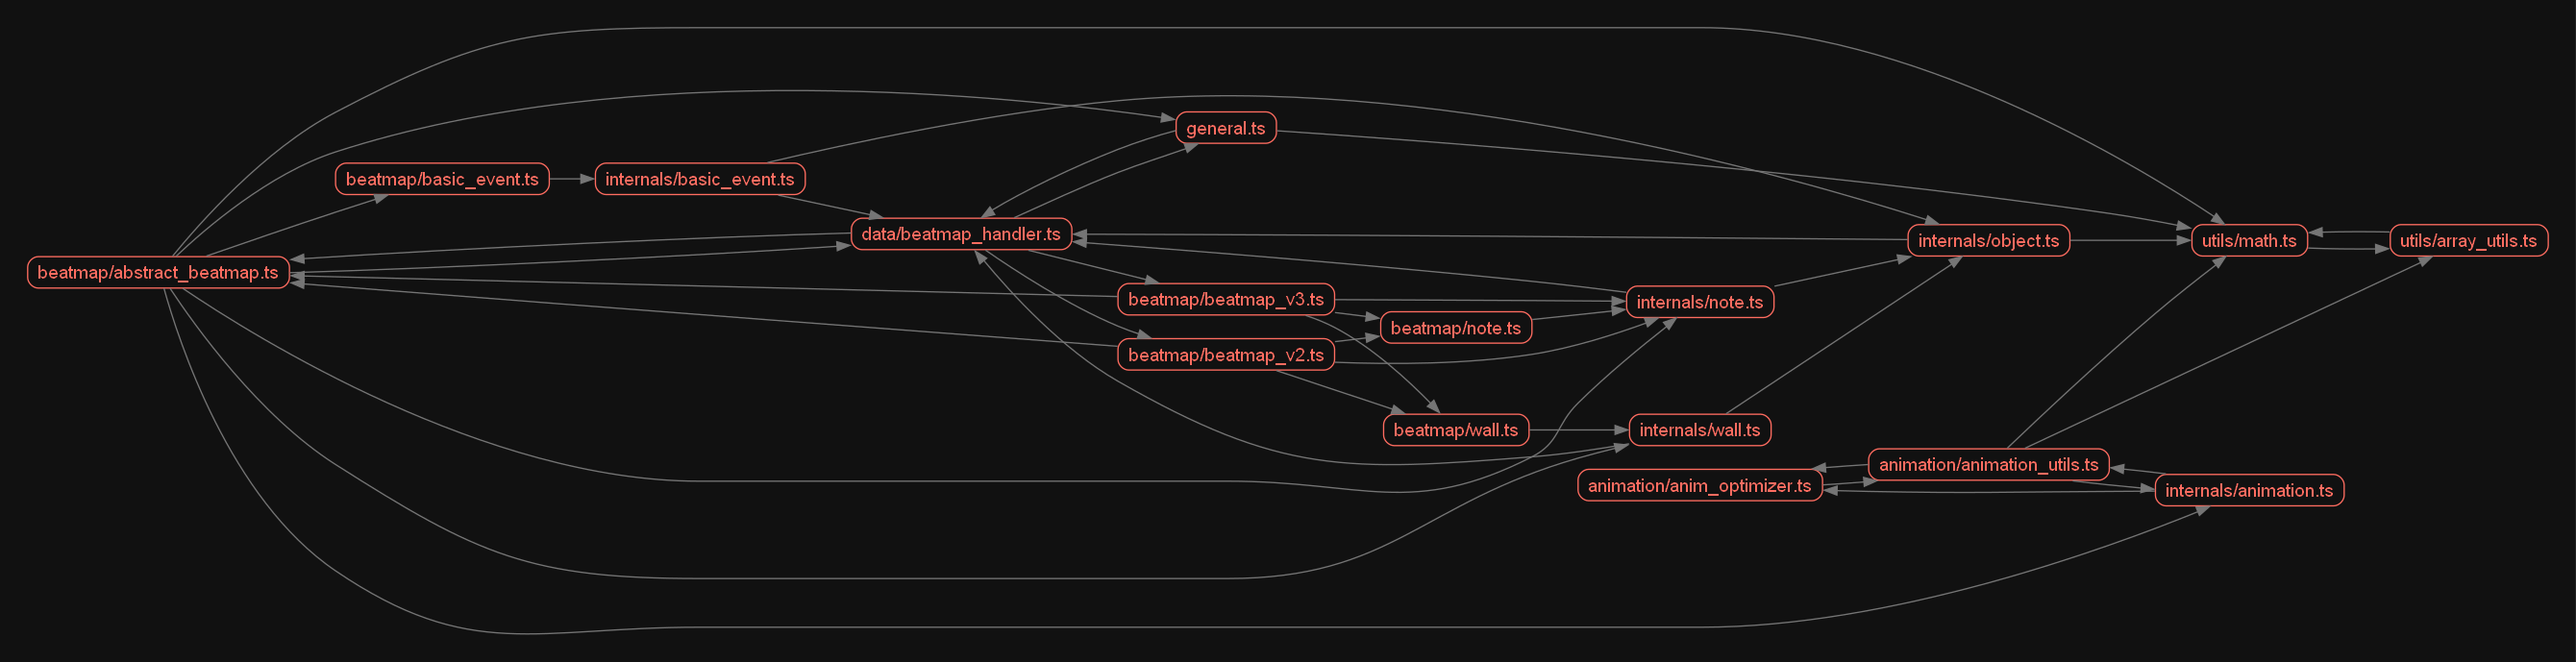
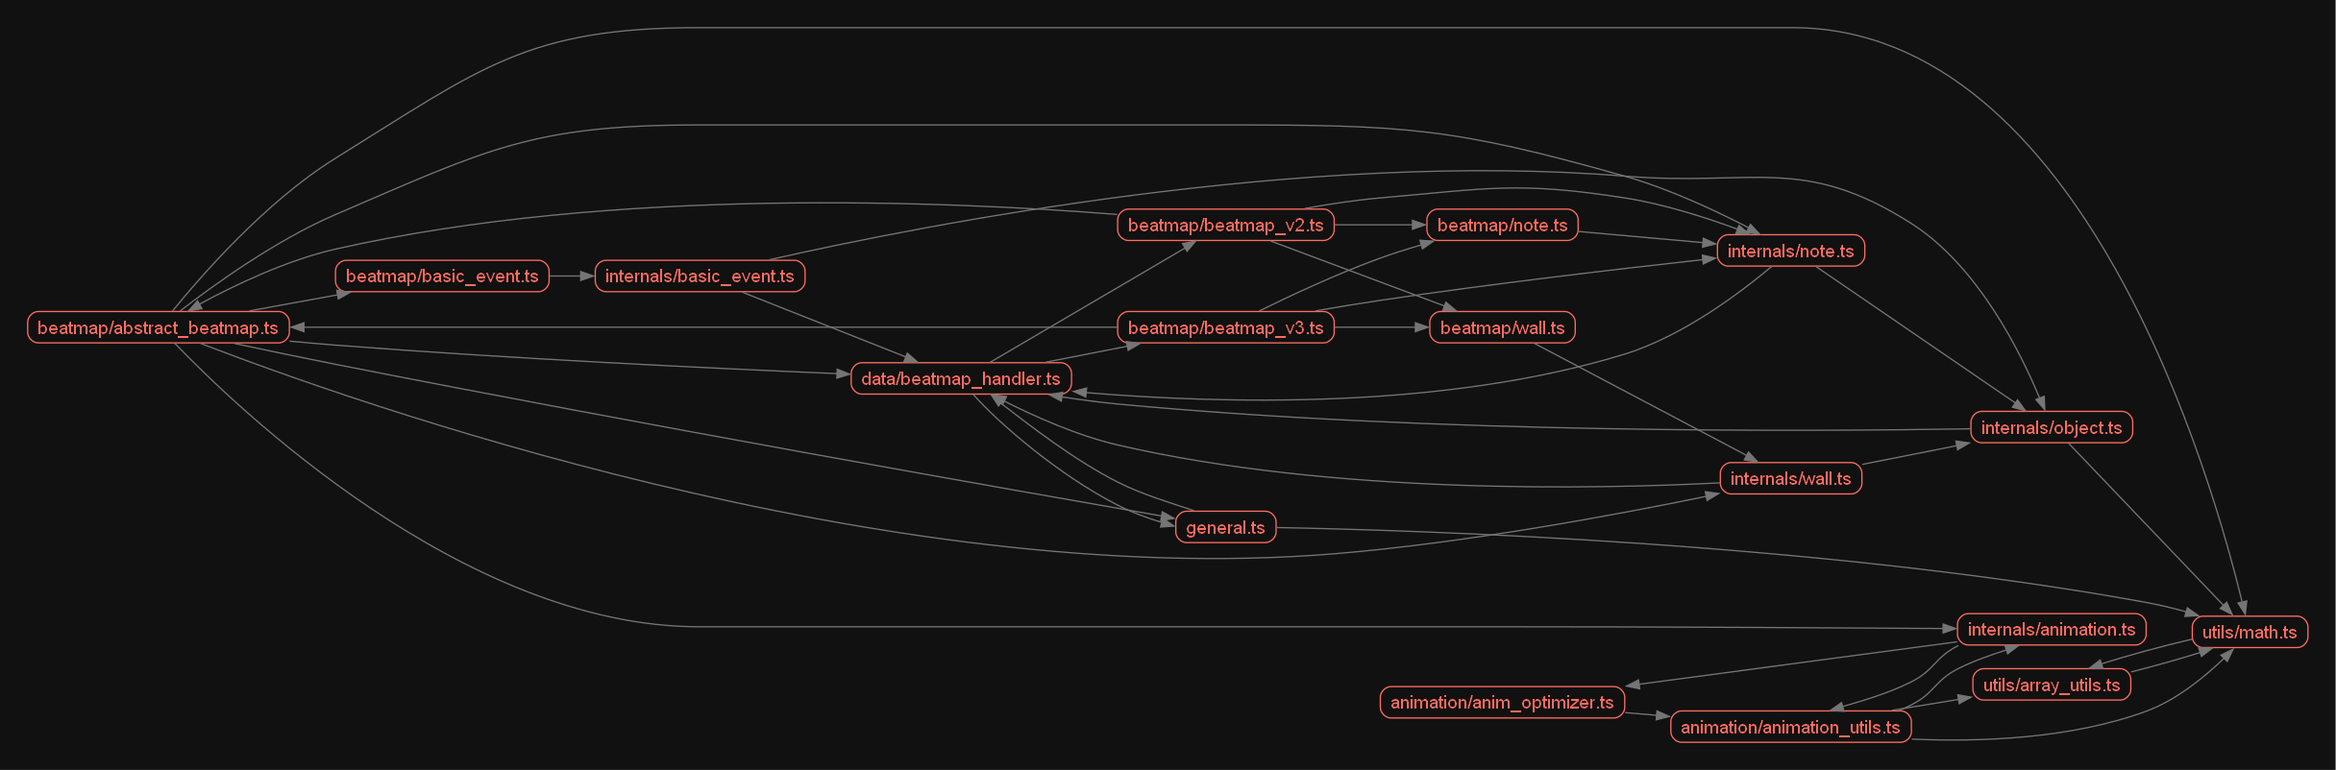
Export through mod.ts, fix some more includes - Improve madge graph

diff --git a/src/mod.ts b/src/mod.ts
@@ -1,44 +1,17 @@
-export * from './animation/anim_optimizer.ts'
-export * from './animation/animation_utils.ts'
-export * from './animation/animation.ts'
-export * from './animation/keyframe.ts'
-export * from './animation/track.ts'
+export * from './animation/mod.ts'
 
-export * from './beatmap/abstract_beatmap.ts'
-export * from './beatmap/basic_event.ts'
-export * from './beatmap/beatmap_v2.ts'
-export * from './beatmap/beatmap_v3.ts'
-export * from './beatmap/beatmap.ts'
-export * from './beatmap/cinema.ts'
-export * from './beatmap/custom_event.ts'
-export * from './beatmap/environment.ts'
-export * from './beatmap/fog.ts'
-export * from './beatmap/light_remapper.ts'
-export * from './beatmap/note.ts'
-export * from './beatmap/object.ts'
-export * from './beatmap/wall.ts'
+export * from './beatmap/mod.ts'
 
-export * from './data/beatmap_handler.ts'
-export * from './data/color.ts'
-export * from './data/constants.ts'
-export * from './data/easings.ts'
-export * from './data/environment_types.ts'
-export * from './data/types.ts'
+export * from './data/mod.ts'
 
-export * from './internals/animation.ts'
-export * from './internals/custom_event.ts'
-export * from './internals/environment.ts'
-export * from './internals/basic_event.ts'
-export * from './internals/light_remapper.ts'
-export * from './internals/object.ts'
+export * from './internals/mod.ts'
 
-export * from './utils/array_utils.ts'
-export * from './utils/json.ts'
-export * from './utils/math.ts'
-export * from './utils/regex.ts'
+export * from './utils/mod.ts'
 
 export * from './general.ts'
+
 // TODO: Finish
-// export * from './model.ts'
+// export * from './model/mod.ts'
 export * from './rm_json.ts'
-export {debugWall} from "./model/wall.ts";
+
+export * from './deps.ts'

diff --git a/src/beatmap/beatmap.ts b/src/beatmap/beatmap.ts
@@ -1,12 +1,16 @@
 // deno-lint-ignore-file adjacent-overload-signatures
 import { adbDeno, compress, fs, path } from '../deps.ts'
-import { Environment } from './environment.ts'
-import { parseFilePath, RMLog } from '../general.ts'
-import { QUEST_WIP_PATH } from '../data/constants.ts'
-import { arrRemove } from '../utils/array_utils.ts'
+
 import { DIFFPATH, DIFFS, FILENAME } from '../data/types.ts'
+import { QUEST_WIP_PATH } from '../data/constants.ts'
 import { info } from '../data/beatmap_handler.ts'
-import { RMDifficulty } from './abstract_beatmap.ts'
+
+import { arrRemove } from '../utils/array_utils.ts'
+
+import { parseFilePath, RMLog } from '../general.ts'
+
+import { Environment } from './environment.ts'
+import type { RMDifficulty } from './abstract_beatmap.ts'
 
 /**
  * Converts an array of Json objects to a class counterpart.

diff --git a/src/beatmap/abstract_beatmap.ts b/src/beatmap/abstract_beatmap.ts
@@ -1,7 +1,6 @@
 import {CustomEvent} from './custom_event.ts'
 import {Environment, Geometry} from './environment.ts'
 import {GeometryMaterial} from '../data/environment_types.ts'
-import {OptimizeSettings} from '../animation/mod.ts'
 import {parseFilePath, RMLog} from '../general.ts'
 import {RMJson} from '../rm_json.ts'
 import {DIFFNAME, DIFFPATH, REQUIRE_MODS, SUGGEST_MODS, TJson,} from '../data/types.ts'
@@ -15,6 +14,7 @@ import {setDecimals} from '../utils/math.ts'
 import {Arc, Bomb, Chain, Note} from "../internals/note.ts";
 import {Wall} from "../internals/wall.ts";
 import {AbstractEvent} from "./basic_event.ts";
+import { OptimizeSettings } from "../animation/anim_optimizer.ts";
 
 export interface RMDifficulty {
     version: bsmap.v2.IDifficulty['_version'] | bsmap.v3.IDifficulty['version']

diff --git a/src/model/model.ts b/src/model/model.ts
@@ -26,18 +26,13 @@ import * as CustomEventInternals from '../internals/custom_event.ts'
 
 
 import {Environment, Geometry} from '../beatmap/environment.ts'
-import {
-    bakeAnimation,
-    complexifyArray,
-    iterateKeyframes,
-    mirrorAnimation,
-    optimizeAnimation,
-    OptimizeSettings,
-} from '../animation/mod.ts'
 
 import {baseEnvironmentTrack} from '../beatmap/beatmap.ts'
 import {animateComponent, animateTrack} from '../beatmap/custom_event.ts'
 import {backLasers} from '../beatmap/basic_event.ts'
+
+import {optimizeAnimation, OptimizeSettings} from "../animation/anim_optimizer.ts";
+import {bakeAnimation, complexifyArray, iterateKeyframes, mirrorAnimation} from "../animation/animation_utils.ts";
 
 
 let modelSceneCount = 0

diff --git a/src/beatmap/beatmap_v2.ts b/src/beatmap/beatmap_v2.ts
@@ -1,5 +1,4 @@
 import { bomb, note } from './note.ts'
-import { noteAnimation, wallAnimation, Track } from '../animation/mod.ts'
 import { wall } from './wall.ts'
 import { bsmap } from '../deps.ts'
 import {
@@ -11,6 +10,8 @@ import {
 } from '../data/types.ts'
 import { AbstractDifficulty } from './abstract_beatmap.ts'
 import {Bomb, Note} from "../internals/note.ts";
+import { Track } from "../animation/track.ts";
+import { noteAnimation, wallAnimation } from "../animation/animation.ts";
 
 function toNoteOrBomb(b: bsmap.v2.INote): Note | Bomb {
     const params:

diff --git a/src/beatmap/beatmap_v3.ts b/src/beatmap/beatmap_v3.ts
@@ -1,4 +1,3 @@
-import { noteAnimation, wallAnimation, Track} from '../animation/mod.ts'
 import { bomb, note } from './note.ts'
 import { wall } from './wall.ts'
 import { bsmap } from '../deps.ts'
@@ -11,6 +10,8 @@ import {
 } from '../data/types.ts'
 import { AbstractDifficulty } from './abstract_beatmap.ts'
 import {Bomb, Note} from "../internals/note.ts";
+import { noteAnimation, wallAnimation } from "../animation/animation.ts";
+import { Track } from "../animation/track.ts";
 
 function toNoteOrBomb(
     obj: bsmap.v3.IColorNote | bsmap.v3.IBombNote,

diff --git a/madge/generate_image.ts b/madge/generate_image.ts
@@ -2,8 +2,14 @@ import madge from 'npm:madge@^6.0.0'
 
 // deno run --allow-all "madge/generate_image.ts" --no-check
 
-madge('src/mod.ts').then((res) => {
-    res.image("madge/image.png")
-    res.image("madge/circular.png", true)
+madge('src/mod.ts', {
+    detectiveOptions: {
+        ts: {
+            skipTypeImports: true,
+        },
+    },
+}).then((res: any) => {
+    res.image('madge/image.png')
+    res.image('madge/circular.png', true)
     console.log(res.circular())
 })

diff --git a/src/data/beatmap_handler.ts b/src/data/beatmap_handler.ts
@@ -4,8 +4,8 @@ import { DIFFNAME, DIFFPATH } from './types.ts'
 import { parseFilePath } from '../general.ts'
 
 import type { AbstractDifficulty } from '../beatmap/abstract_beatmap.ts'
-import type { V3Difficulty } from "../beatmap/beatmap_v3.ts";
-import type { V2Difficulty } from "../beatmap/beatmap_v2.ts";
+import { V3Difficulty } from "../beatmap/beatmap_v3.ts";
+import { V2Difficulty } from "../beatmap/beatmap_v2.ts";
 
 export let info: bsmap.IInfo
 export let infoPath: string

diff --git a/src/internals/mod.ts b/src/internals/mod.ts
@@ -1,0 +1,8 @@
+export * as AnimationInternals from "./animation.ts"
+export * as BasicEventInternals from "./basic_event.ts"
+export * as CustomEventInternals from "./custom_event.ts"
+export * as EnvironmentInternals from "./environment.ts"
+export * as LightRemapperInternals from "./light_remapper.ts"
+export * as NoteInternals from "./note.ts"
+export * as ObjectInternals from "./object.ts"
+export * as WallInternals from "./wall.ts"

diff --git a/src/beatmap/environment.ts b/src/beatmap/environment.ts
@@ -11,9 +11,9 @@ import {
     Lookup,
     RawKeyframesAny,
 } from '../data/types.ts'
-import { combineAnimations } from '../animation/mod.ts'
 import { GeometryMaterial } from '../data/environment_types.ts'
 import { activeDiffGet } from '../data/beatmap_handler.ts'
+import { combineAnimations } from "../animation/animation_utils.ts";
 
 let envCount = 0
 

diff --git a/src/beatmap/basic_event.ts b/src/beatmap/basic_event.ts
@@ -1,7 +1,10 @@
+import {bsmap} from "../deps.ts"
+
 import {EventGroup, InterscopeGroup} from '../data/constants.ts'
+import {Fields} from '../data/types.ts'
+
 import * as EventInternals from '../internals/basic_event.ts'
 import {BaseEvent} from '../internals/basic_event.ts'
-import {Fields} from '../data/types.ts'
 
 type LightParameters =
     | [

diff --git a/src/beatmap/mod.ts b/src/beatmap/mod.ts
@@ -4,3 +4,9 @@ export * from "./beatmap_v2.ts"
 export * from "./beatmap_v3.ts"
 export * from "./beatmap.ts"
 export * from "./cinema.ts"
+export * from "./custom_event.ts"
+export * from "./environment.ts"
+export * from "./fog.ts"
+export * from "./light_remapper.ts"
+export * from "./note.ts"
+export * from "./wall.ts"
